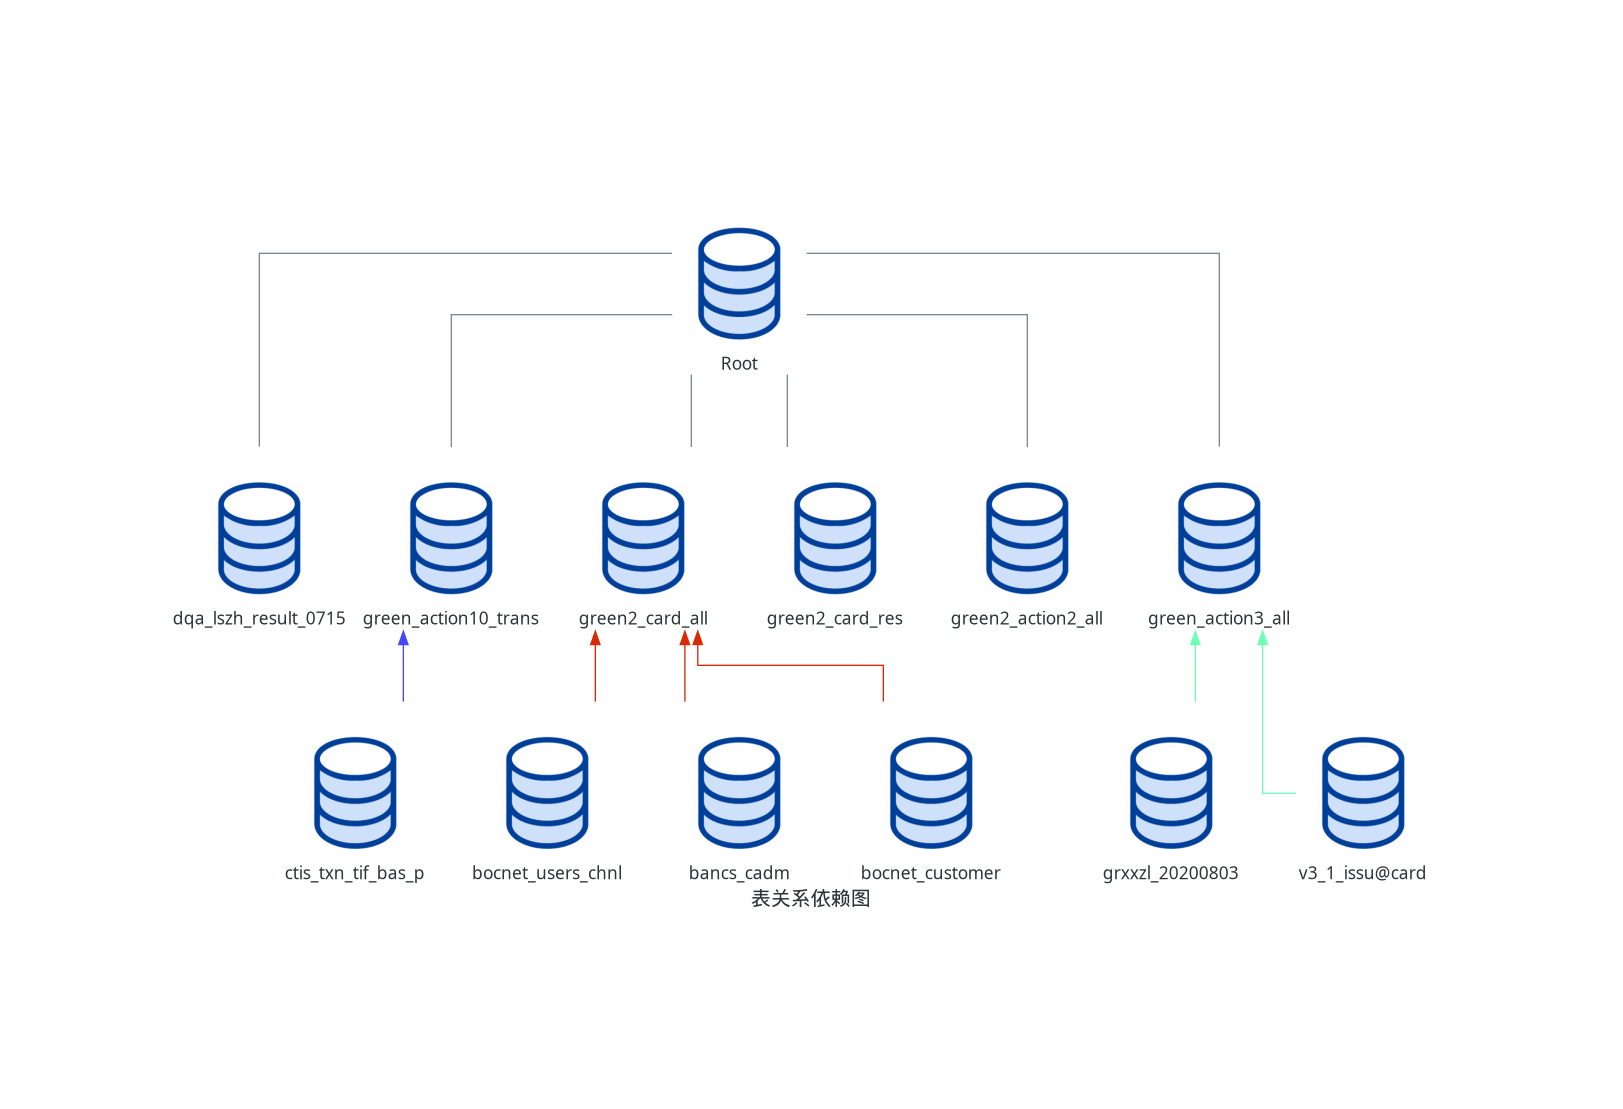
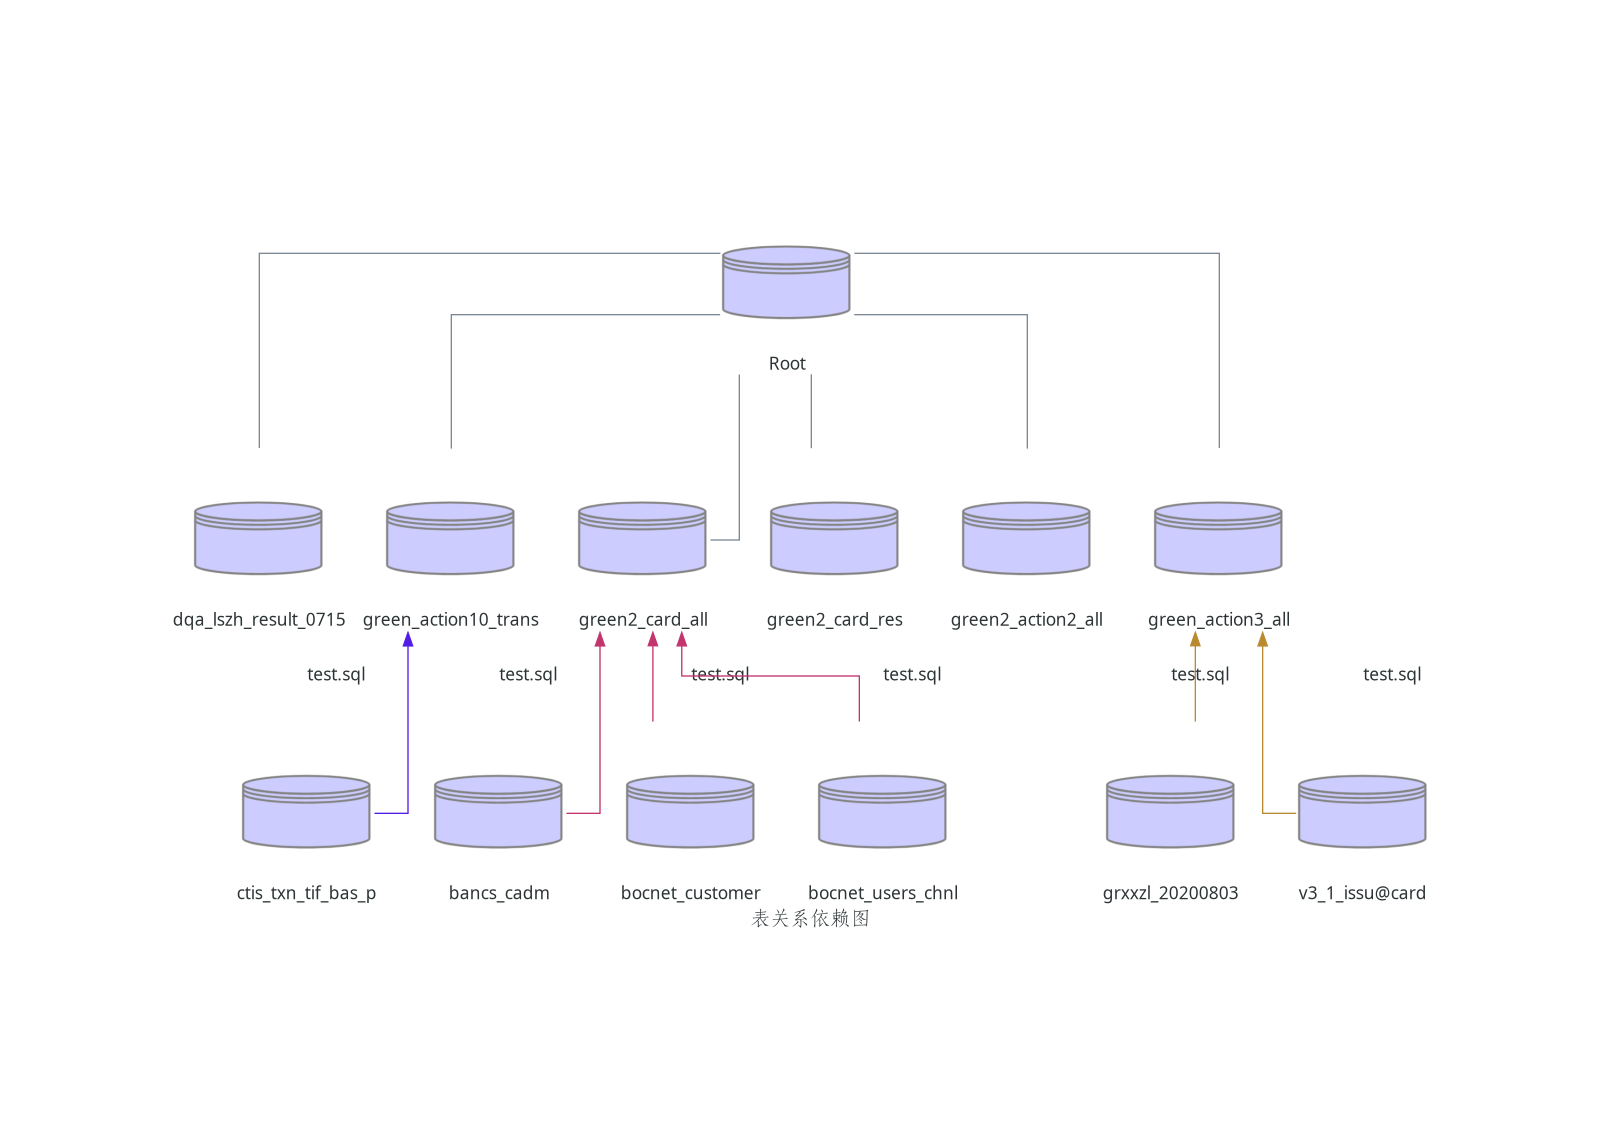
增加了drop table 解析语句,同时优化了图形的展示图标,修复了两处BUG

diff --git a/drawGraph.py b/drawGraph.py
@@ -1,6 +1,7 @@
 import random
 
 from diagrams import Diagram, Cluster, Edge
+from diagrams.programming.flowchart import  Delay,Database
 
 from diagrams.digitalocean.database import DbaasPrimaryStandbyMore, DbaasPrimary, DbaasReadOnly, DbaasStandby
 from UtilsForSQLPARSER import AllUsedTables,AllTableDict,scriptTables
@@ -19,29 +20,29 @@ NodeDict={}
 
 def draw():
     with Diagram("表关系依赖图", show=False, outformat=["jpg", "png", "dot", "svg"],direction="TB"):
-        parentNode = DbaasPrimary("Root")
+        parentNode = Database("Root")
         NodeDict['Root']=parentNode
         for index, rela in enumerate(AllUsedTables):
-            drawANode(tableName=rela, parentNode=parentNode)
+            drawANode(tableName=rela, parentNode=parentNode,sqlfile="")
 
 
-def drawANode(tableName="",parentNode=None,color="black"):
+def drawANode(tableName="",parentNode=None,color="black",sqlfile=""):
     theNode=None;
     if tableName in NodeDict.keys():
         theNode=NodeDict[tableName]
     else:
-        theNode = DbaasPrimary(tableName)
+        theNode = Database(tableName)
         if parentNode == NodeDict['Root']:
             parentNode - theNode
         else:
             parentNode <<Edge(
-            color=color)<<theNode
+            color=color,label=sqlfile.split("/")[-1])<<theNode
         NodeDict[tableName]=theNode
     if tableName in AllTableDict.keys():
         logger.info("探测到当前表名下有依赖的层级,开始按照来源逐一解析")
         thecolor = random_color()
         for thetablename in AllTableDict[tableName].tableFroms:
-            drawANode(tableName=thetablename, parentNode=theNode,color=thecolor)
+            drawANode(tableName=thetablename, parentNode=theNode,color=thecolor,sqlfile=AllTableDict[tableName].scriptFiles)
     else:
         logger.info("{atablename}当前表已经到了根节点".format(atablename=tableName))
 

diff --git a/UtilsForSQLPARSER.py b/UtilsForSQLPARSER.py
@@ -62,10 +62,26 @@ def parseSQLCreateTableAs(sql=[],sqlfile=""):
         logger.error("探测到相同表名重复创建在不同的脚本中")
     else:
         AllTableDict[result2] = tableRelations
+    alltablenames=list(set(fromtables))
+    alltablenames.append(result2)
+    putTableIntoScriptDict(tablenames=alltablenames, sqlfile=sqlfile)
 
-    putTableIntoScriptDict(tablenames=list(set(fromtables)).append(result2), sqlfile=sqlfile)
-
-
+def parseSQLDropTable(sql=[],sqlfile=""):
+    """parse SQLLINE with pattern drop table ....
+    :param sql: the words array of SQLLINE
+    :param sqlfile: SQLLINE IN SQLFILE
+    """
+    global AllUsedTables
+    global AllTableDict
+    global scriptTables
+    logger.info("开始处理drop table 语句")
+    result=re.sub(r"\s?drop\s?table\s?",""," ".join(sql),0,re.IGNORECASE)
+    result1=re.sub(r"\s?as.*","",result,0,re.IGNORECASE)
+    result2=re.sub(r";","",result1,0,re.IGNORECASE)
+    finaltablename=result2.split(" ")[0]
+    AllUsedTables.append(finaltablename)
+    logger.info("获取到的表名是{tablename}".format(tablename=finaltablename))
+    putTableIntoScriptDict(tablenames=[finaltablename], sqlfile=sqlfile)
 
 
 def countNumOfItem(theitem,arr):

diff --git a/FileTools.py b/FileTools.py
@@ -6,7 +6,7 @@ import os
 import re
 import traceback
 import chardet
-from UtilsForSQLPARSER import parseSQLCreateTableAs, parseSQLTruncate
+from UtilsForSQLPARSER import parseSQLCreateTableAs, parseSQLTruncate, parseSQLDropTable
 from Log import logger
 
 sqllineArr=[];  # 所有SQL语句放入数组中
@@ -89,10 +89,13 @@ def parseSQLLine(sqlline=[],sqlfile=""):
         pass
         logger.info("探测到这个语句是一个利用建表语法处理数据的SQL")
         parseSQLCreateTableAs(sql=sqlline,sqlfile=sqlfile)
-    if re.match(r"\s?truncate\s?table\s?.*","".join(sqlline),re.IGNORECASE):
+    elif re.match(r"\s?truncate\s?table\s?.*","".join(sqlline),re.IGNORECASE):
         pass
         logger.info("探测到这个语句是truncate语句")
         parseSQLTruncate(sql=sqlline,sqlfile=sqlfile)
+    elif re.match(r"\s?drop\s?table\s?.*","".join(sqlline),re.IGNORECASE):
+        logger.info("探测到这个语句是drop table 语句")
+        parseSQLDropTable(sql=sqlline,sqlfile=sqlfile)
     else:
         logger.error("当前SQL语句没有被匹配到......")
 

diff --git a/DataTree.py b/DataTree.py
@@ -29,10 +29,9 @@ class TreeStore:
     
     pathdict={}  #全局存储的所有表名和所在地址路径
 
-    def getInstance():
+    def getInstance(self):
         pass
         treestore=TreeStore()
-        
         rootNode=Node()
         rootNode.parentNode=None
         rootNode.NodePath="/Root"
